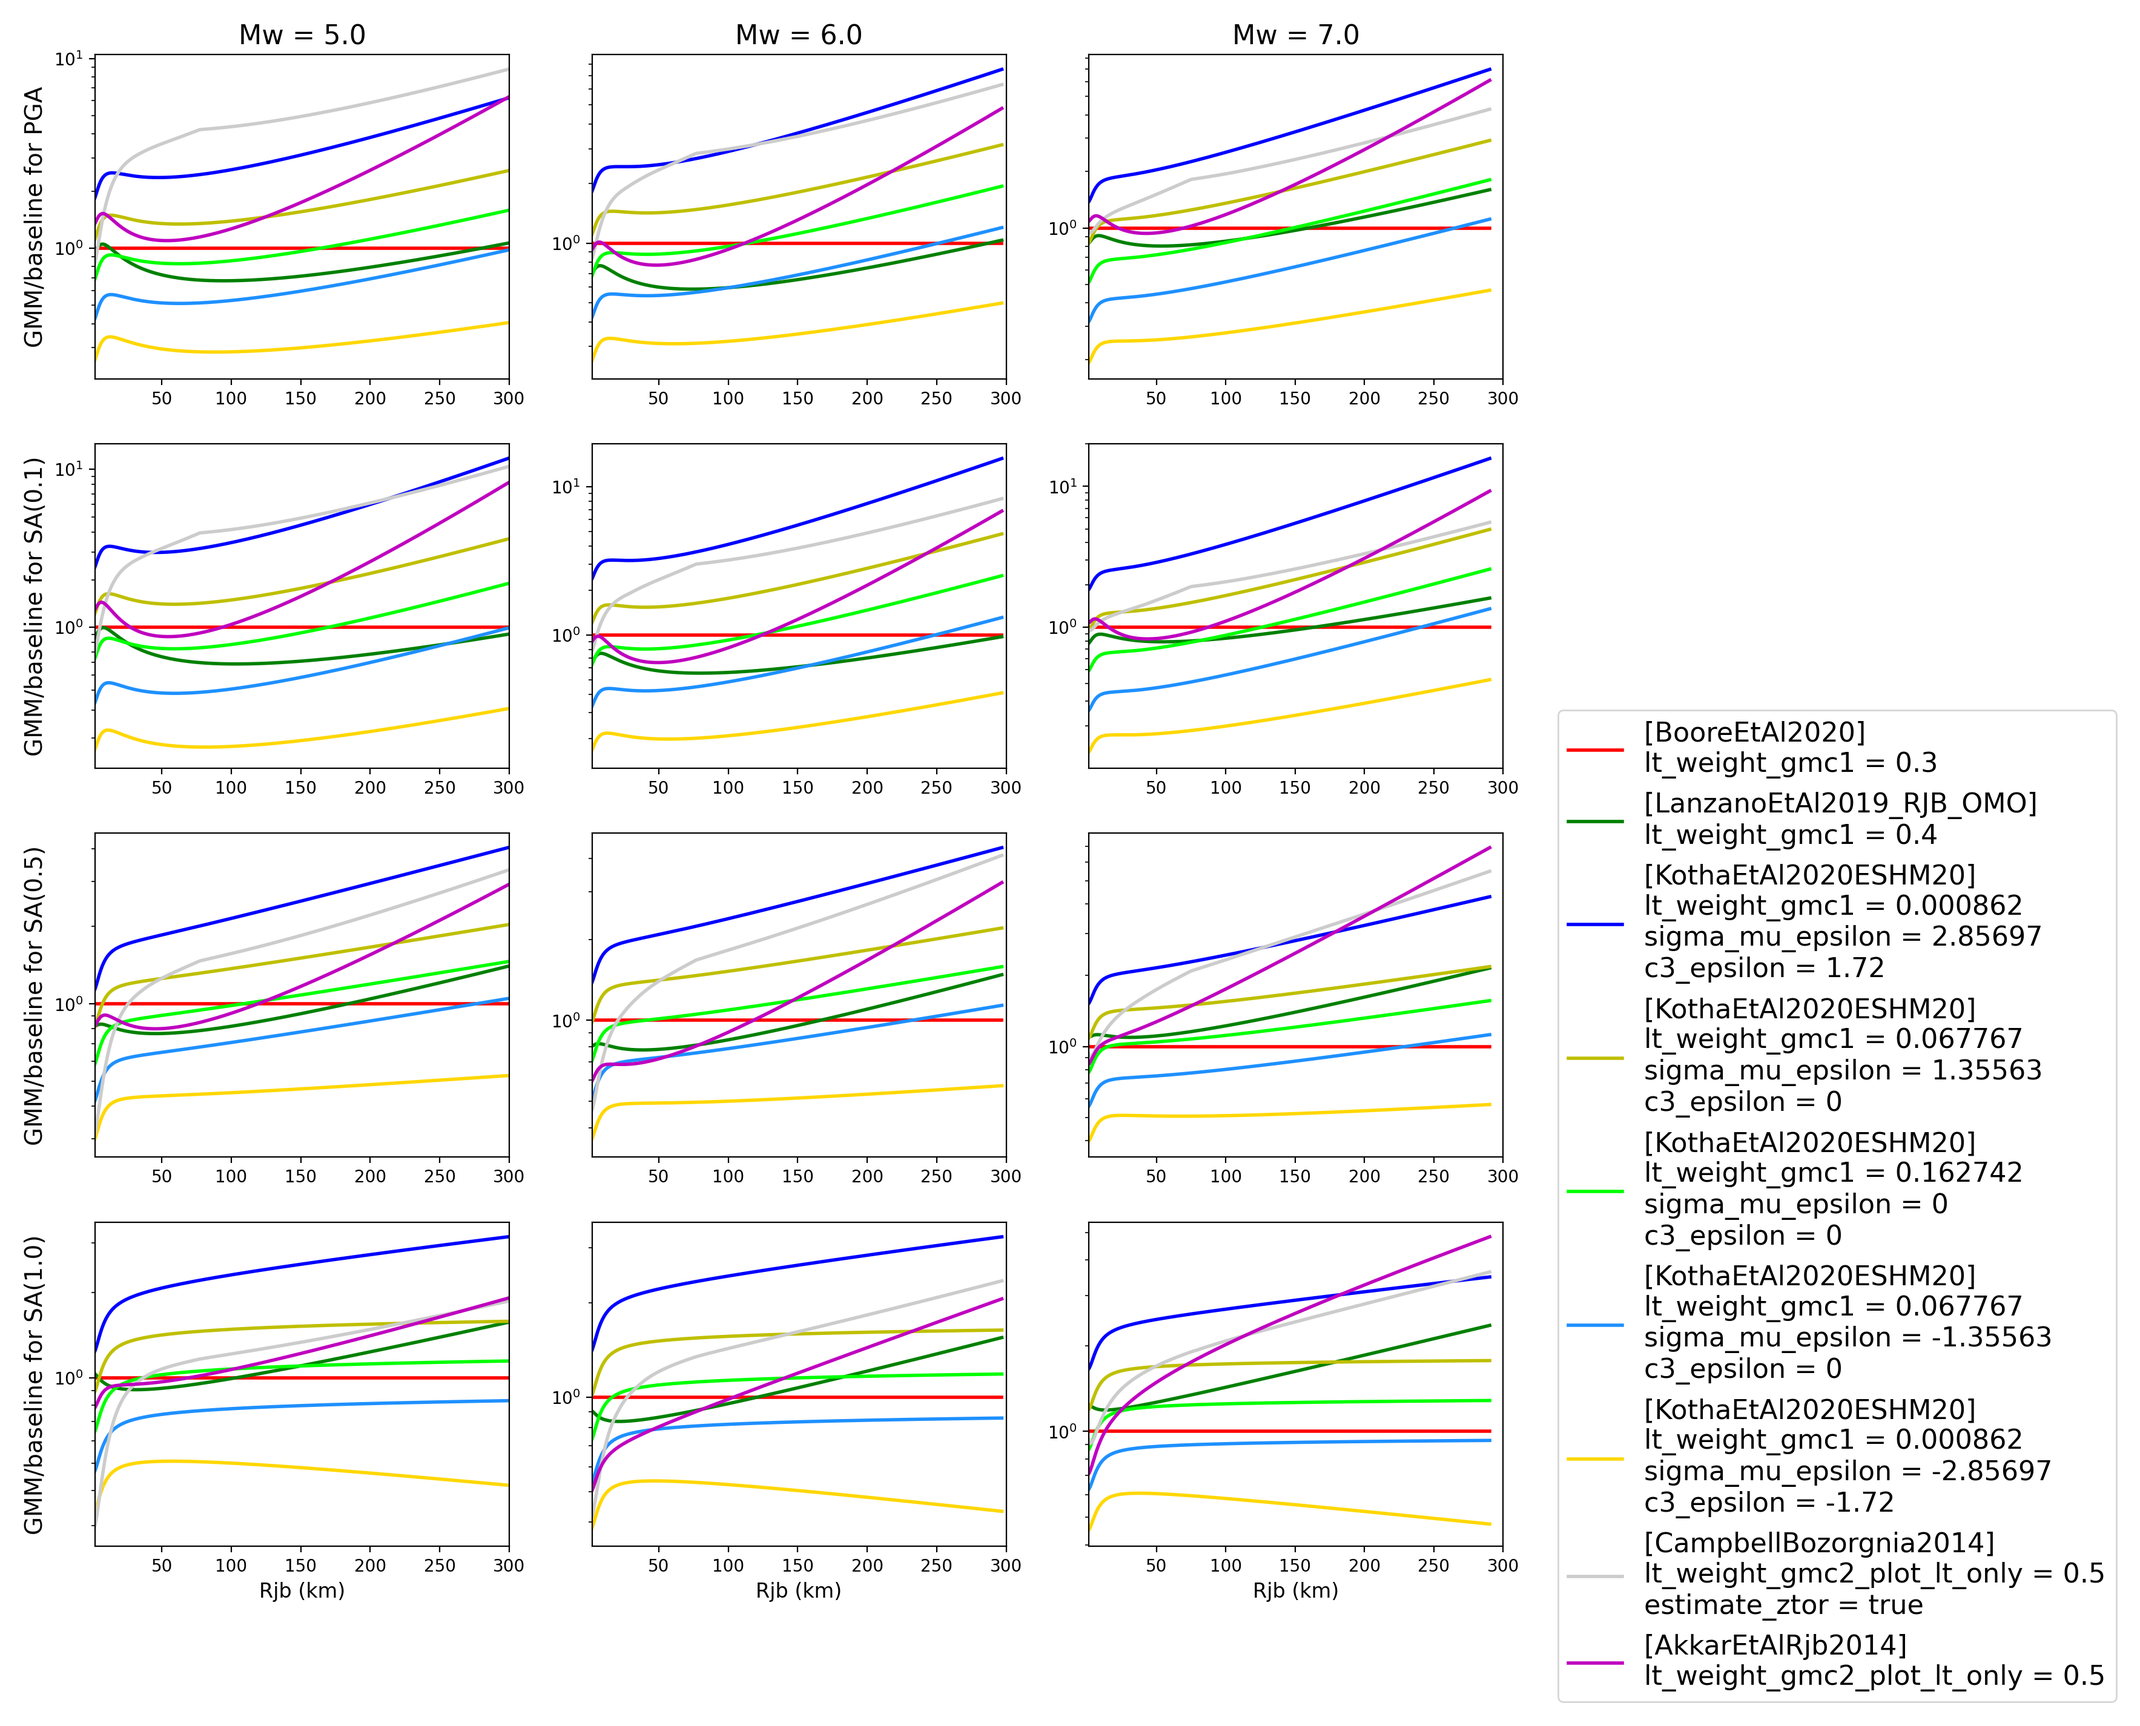
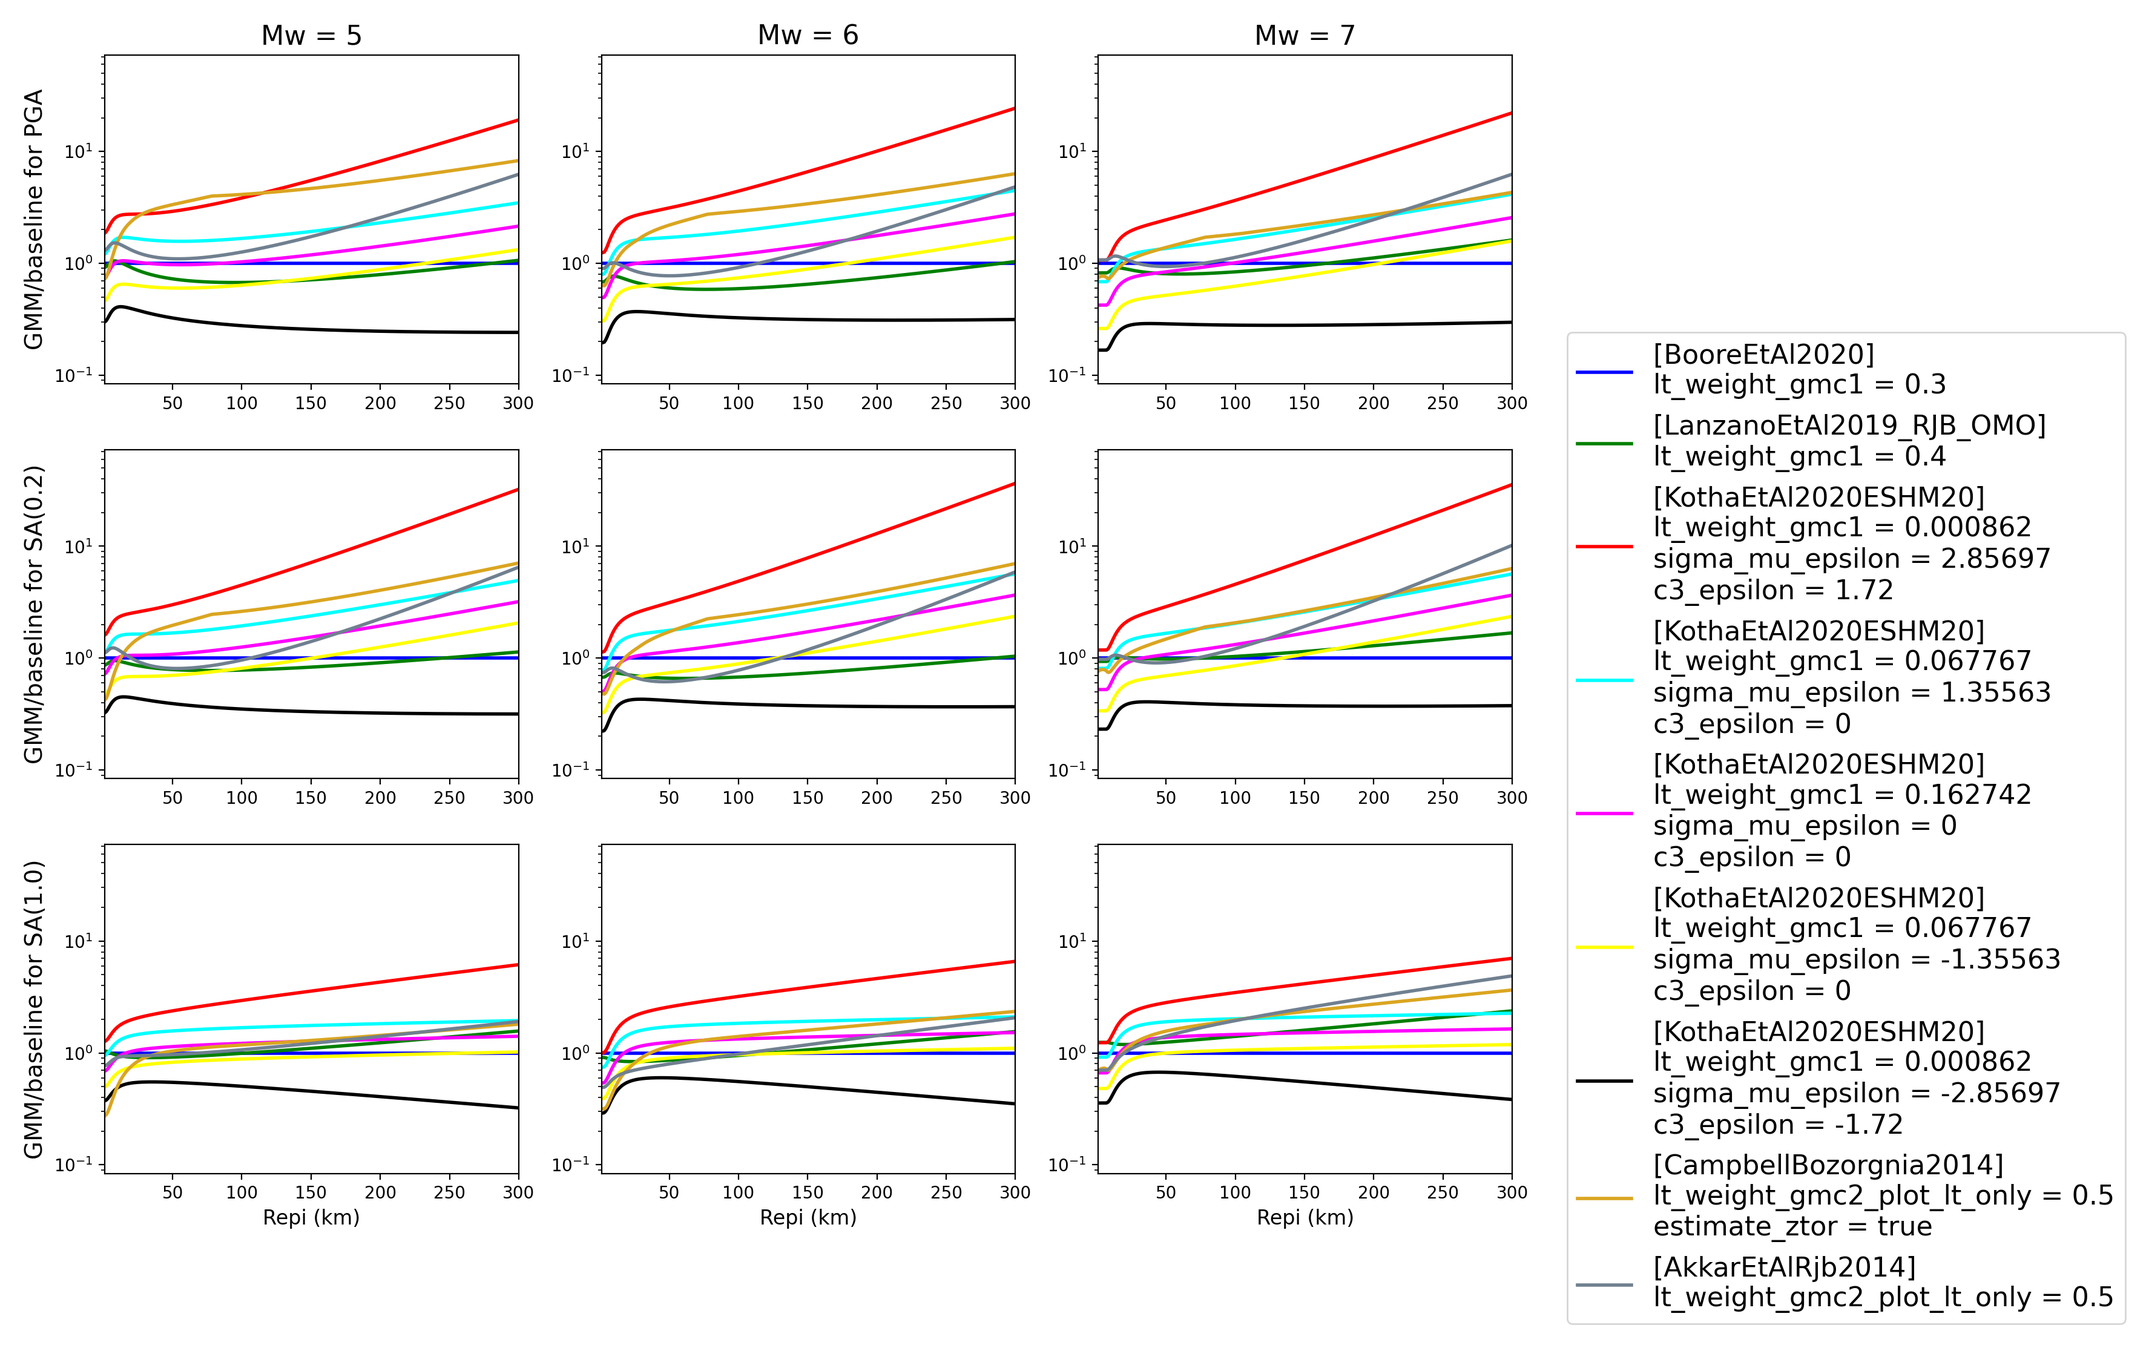
ratio axis

diff --git a/openquake/smt/comparison/utils_compare_gmpes.py b/openquake/smt/comparison/utils_compare_gmpes.py
@@ -428,11 +428,11 @@ def plot_ratios_util(config, output_directory):
     
     # Compute ratio curves
     fig = pyplot.figure(figsize=(len(mag_list)*5, len(config.imt_list)*4))
-    ratio_store = []
+    ratio_store, axs = [], []
     for n, i in enumerate(config.imt_list):
         for l, m in enumerate(mag_list):
-            fig.add_subplot(
-                len(config.imt_list), len(mag_list), l+1+n*len(mag_list))
+            ax = fig.add_subplot(len(config.imt_list), len(mag_list), l+1+n*len(mag_list))
+            axs.append(ax)
             
             # Get depth params
             depth_g = dep_list[l] 
@@ -535,8 +535,9 @@ def plot_ratios_util(config, output_directory):
                                    config.maxR)
     
     # Finalise plots
-    pyplot.legend(loc="center left", bbox_to_anchor=(1.1, 1.05), fontsize='16')
+    for ax in axs: ax.set_ylim(1/2*np.min(ratio_store), 2*np.max(ratio_store)) # Small buffer in log-space
     out = os.path.join(output_directory, 'RatioPlots.png')
+    pyplot.legend(loc="center left", bbox_to_anchor=(1.1, 1.05), fontsize='16')
     pyplot.savefig(out, bbox_inches='tight', dpi=200, pad_inches=0.2)
     pyplot.close()
 
